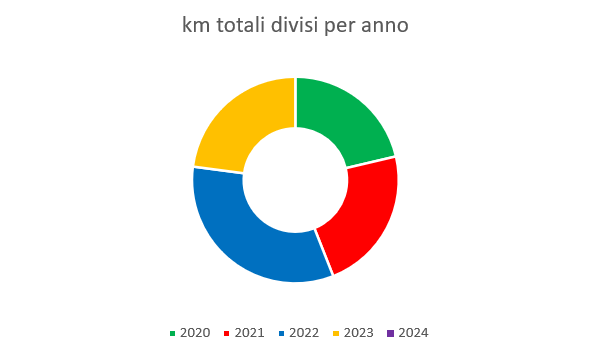
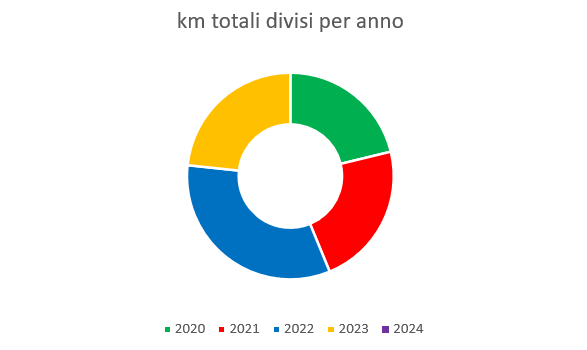
Add files via upload

diff --git a/Statistiche/Statistiche2023.html b/Statistiche/Statistiche2023.html
@@ -47,61 +47,61 @@
         <tr>
             <td>Gennaio</td>
             <td>127</td>
-            <td>4,81%</td>
+            <td>4,70%</td>
         </tr>
 
         <tr>
             <td>Febbraio</td>
             <td>148</td>
-            <td>5,61%</td>
+            <td>5,48%</td>
         </tr>
 
         <tr>
             <td>Marzo</td>
             <td>194</td>
-            <td>7,35%</td>
+            <td>7,19%</td>
         </tr>
 
         <tr>
             <td>Aprile</td>
             <td>103</td>
-            <td>3,90%</td>
+            <td>3,81%</td>
         </tr>
 
         <tr>
             <td>Maggio</td>
             <td>242</td>
-            <td>9,17%</td>
+            <td>8,96%</td>
         </tr>
 
         <tr>
             <td>Giugno</td>
             <td>265</td>
-            <td>10,04%</td>
+            <td>9,81%</td>
         </tr>
 
         <tr>
             <td>Luglio</td>
             <td>422</td>
-            <td>15,99%</td>
+            <td>15,63%</td>
         </tr>
 
         <tr>
             <td>Agosto</td>
             <td>426</td>
-            <td>16,14%</td>
+            <td>15,78%</td>
         </tr>
 
         <tr>
             <td>Settembre</td>
             <td>712</td>
-            <td>26,98%</td>
+            <td>26,37%</td>
         </tr>
 
         <tr>
             <td>Ottobre</td>
-            <td></td>
-            <td></td>
+            <td>61</td>
+            <td>2,26%</td>
         </tr>
 
     </table>
@@ -112,10 +112,10 @@
 
     <br>
     <div class="colore">
-        <p>totale km 2.639
+        <p>totale km 2.700
             <img src="../Icone/traguardo.png">
         </p>
-        <p>km medi percorsi 62,83</p>
+        <p>km medi percorsi 62,79</p>
     </div>
     <br>
 

diff --git a/Statistiche.html b/Statistiche.html
@@ -83,7 +83,7 @@
             </td>
 
             <td>
-                21,30%
+                21,20%
             </td>
 
         </tr>
@@ -99,7 +99,7 @@
             </td>
 
             <td>
-                22,70%
+                22,60%
             </td>
         </tr>
 
@@ -113,7 +113,7 @@
             </td>
 
             <td>
-                33,10%
+                32,90%
             </td>
 
         </tr>
@@ -124,11 +124,11 @@
             </td>
 
             <td>
-                2.639
+                2.700
             </td>
 
             <td>
-                22,90%
+                23,30%
             </td>
 
         </tr>
@@ -158,11 +158,11 @@
 
     <div class="colore">
         <p>
-            totale km fatti 11.517
+            totale km fatti 11.578
             <img src="Icone/traguardo.png">
         </p>
 
-        <p>km medi percorsi 69,38 </p>
+        <p>km medi percorsi 69,33 </p>
 
     </div>
 

diff --git a/Autunno_Inverno/Autunno_Inverno2023-2024.html b/Autunno_Inverno/Autunno_Inverno2023-2024.html
@@ -48,10 +48,12 @@
         </tr>
 
         <tr>
-            <td>data</td>
+            <td>2 ottobre</td>
             <td>1</td>
-            <td><a href="link">link</a></td>
-            <td>distanza</td>
+            <td><a
+                    href="https://www.komoot.com/it-it/tour/1333360883?ref=wtd&share_token=aGUgIIWhXbe69V678xoW6dOA53KxwTeEsTJ7m8aPHjdzTVLnce">Ariis
+                    + Mortegliano</a></td>
+            <td>61</td>
             <td>km</td>
         </tr>
 
@@ -59,10 +61,10 @@
 
     <br>
     <div class="colore">
-        <p> totale km 0
+        <p> totale km 61
             <img src="../Icone/traguardo.png">
         </p>
-        <p>km medi percorsi 0</p>
+        <p>km medi percorsi 61</p>
     </div>
 </body>
 

diff --git a/Giri.html b/Giri.html
@@ -241,11 +241,11 @@
     <br>
     <div class="colore">
         <p>
-            totale km fatti 11.517
+            totale km fatti 11.578
             <img src="Icone/traguardo.png">
         </p>
 
-        <p>km medi percorsi 69,38 </p>
+        <p>km medi percorsi 69,33 </p>
 
     </div>
 

diff --git a/Autunno_Inverno.html b/Autunno_Inverno.html
@@ -105,7 +105,7 @@
                 </td>
     
                 <td>
-                    0
+                    61
                 </td>
             </tr>
 
